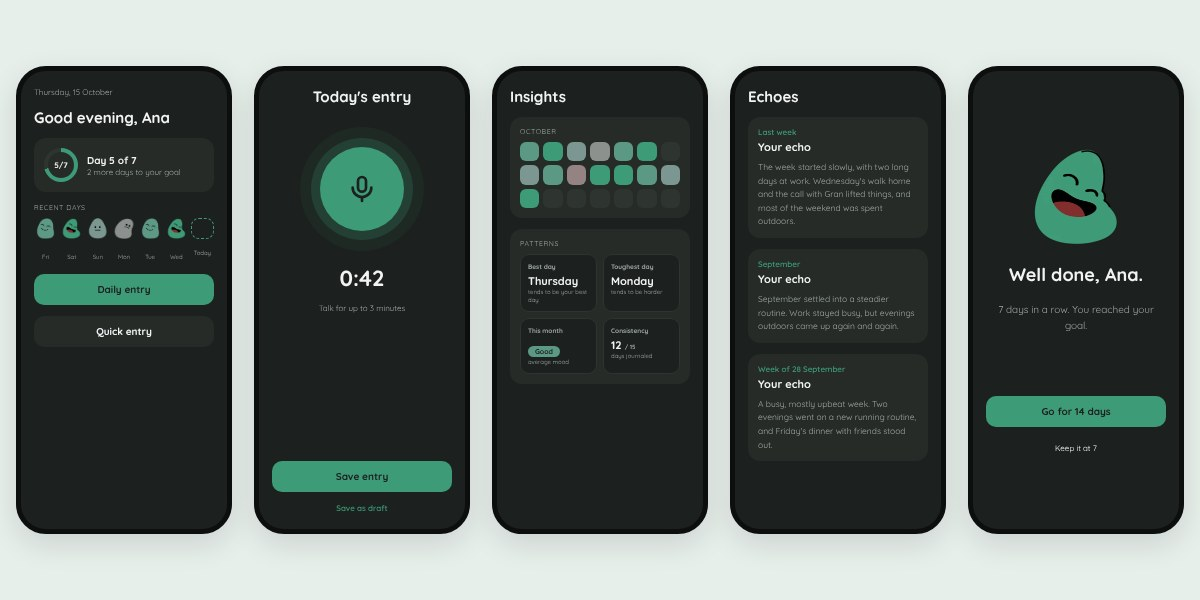
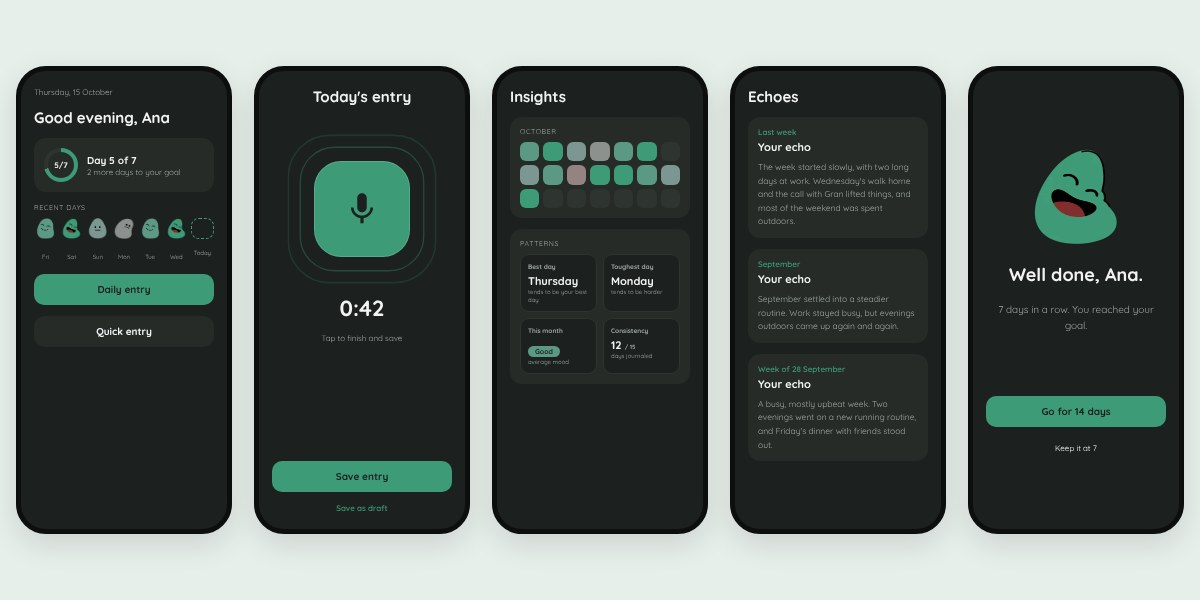
Show the recording button as the app's squircle with echo rings
The app records with a 140px rounded square (40px corners), a filled
mic icon and three rings that expand and fade outwards. The Echoes page
and the main-page banner now match it instead of showing a circle. The
rings stay still for people who prefer reduced motion.

Claude-Session: https://claude.ai/code/session_01X8zHdQg9guBhG5NmHtnUxU

Changed region(s): [[0.2467, 0.21, 0.37, 0.57]]

diff --git a/echoes/index.html b/echoes/index.html
@@ -387,17 +387,35 @@
       gap: 12px;
       padding: 8px 0 18px;
     }
+    /* The app's recording squircle: 140px with a 40px corner radius, scaled down */
     .record-btn {
-      width: 96px;
-      height: 96px;
-      border-radius: 50%;
+      position: relative;
+      width: 100px;
+      height: 100px;
+      margin: 36px 0 26px;
+      border-radius: 29px;
       background: var(--accent);
+      border: 1px solid rgba(255, 255, 255, 0.15);
       display: grid;
       place-items: center;
-      box-shadow: 0 0 0 10px rgba(62, 155, 120, 0.18), 0 0 0 22px rgba(62, 155, 120, 0.08);
     }
-    .record-btn svg { width: 36px; height: 36px; }
-    .record-time { font-size: 1.6rem; font-weight: 700; letter-spacing: -0.02em; margin-top: 12px; }
+    .record-btn svg { width: 40px; height: 40px; position: relative; }
+    /* Echo rings: expand and fade outwards from the squircle, like the app */
+    .record-btn .ring {
+      position: absolute;
+      inset: -1px;
+      border-radius: 29px;
+      border: 1.5px solid var(--accent);
+      opacity: 0;
+      animation: echo-ring 2s linear infinite;
+    }
+    .record-btn .ring:nth-child(2) { animation-delay: 0.65s; }
+    .record-btn .ring:nth-child(3) { animation-delay: 1.3s; }
+    @keyframes echo-ring {
+      from { transform: scale(1); opacity: 0.55; }
+      to { transform: scale(1.7); opacity: 0; }
+    }
+    .record-time { font-size: 1.6rem; font-weight: 700; letter-spacing: -0.02em; }
     .record-hint { font-size: 0.78rem; color: var(--muted); }
 
     .transcript {
@@ -573,6 +591,7 @@
       html { scroll-behavior: auto; }
       .js .reveal { opacity: 1; transform: none; transition: none; }
       .status .dot { animation: none; }
+      .record-btn .ring { animation: none; opacity: 0.25; transform: scale(1.25); }
     }
 
     /* ── Tablet ─────────────────────────────────────────── */
@@ -742,10 +761,11 @@
             <p class="card-label">Recording</p>
             <div class="record">
               <div class="record-btn">
-                <svg viewBox="0 0 24 24" fill="none" stroke="#1C201E" stroke-width="2" stroke-linecap="round" stroke-linejoin="round" aria-hidden="true"><rect x="9" y="3" width="6" height="11" rx="3"/><path d="M5 11a7 7 0 0 0 14 0M12 18v3"/></svg>
+                <span class="ring"></span><span class="ring"></span><span class="ring"></span>
+                <svg viewBox="0 0 24 24" fill="#1C201E" aria-hidden="true"><path d="M12 14c1.66 0 2.99-1.34 2.99-3L15 5c0-1.66-1.34-3-3-3S9 3.34 9 5v6c0 1.66 1.34 3 3 3zm5.3-3c0 3-2.54 5.1-5.3 5.1S6.7 14 6.7 11H5c0 3.41 2.72 6.23 6 6.72V21h2v-3.28c3.28-.48 6-3.3 6-6.72h-1.7z"/></svg>
               </div>
               <p class="record-time">0:42</p>
-              <p class="record-hint">Talk for up to 3 minutes</p>
+              <p class="record-hint">Tap to finish and save</p>
             </div>
           </div>
         </div>
